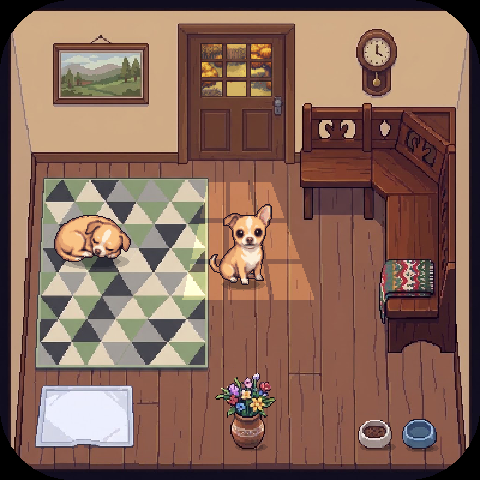
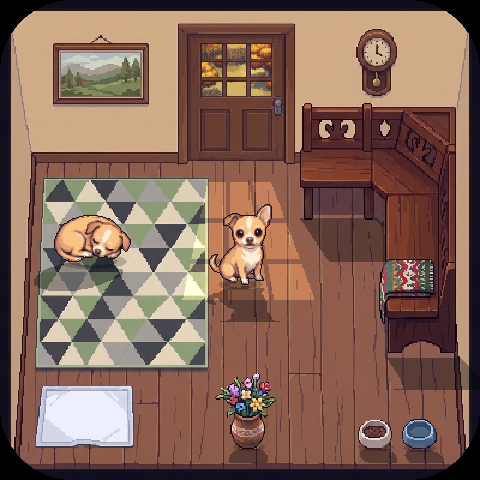
Backgrounds: cast shadows from the door's light, fading in the evening
By day the light comes through the door (from the back and above): Lili,
the vase, the bowls and the corner bench (hand-traced silhouette) throw a
shadow towards the viewer and away from the door, each pixel projected by
its height so the shadow keeps the shape. Evening: weaker, with a weaker
sunbeam; night: only the overhead lamp's short contact shadow.
Preview only (docs/img/bg/room_light_cycle.png).

diff --git a/tools/bg_prepare.py b/tools/bg_prepare.py
@@ -136,16 +136,24 @@ def pane_mask():
             m[ya:yb + 1, xa:xb + 1] = True
     return m
 
-def show(img400, sprites=(), night=False):
-    """the 480 display: 1.2x nearest (every 5th pixel doubled), Lili at native size with her shadow under
-    her, rounded corners; night = the evening table: darker and colder (the game swaps the palette LUT)"""
+def show(img400, sprites=(), cast=0.0, tone=None, room=True):
+    """the 480 display: 1.2x nearest (every 5th pixel doubled), Lili at native size with her shadows (the
+    door's cast shadow in the room by day, the short one under her always), rounded corners; tone = the
+    time-of-day table (multiply, add), as the game's palette LUT swap would do it"""
     s = img400.convert("RGB").resize((SHOW, SHOW), Image.NEAREST)
-    s = shade(s, [(x + 3, y - 1, rx, ry) for pose, x, y, rx, ry in sprites])
-    for pose, x, y, rx, ry in sprites:
-        sp = Image.open(os.path.join(ROOT, "assets", "sprites", "lili_src", pose + ".png")).convert("RGBA")
+    sps = [(Image.open(os.path.join(ROOT, "assets", "sprites", "lili_src", pose + ".png")).convert("RGBA"), x, y)
+           for pose, x, y, rx, ry in sprites]
+    if room and cast > 0:
+        k = SHOW / GRID
+        cm = np.zeros((SHOW, SHOW), bool)
+        for sp, x, y in sps:
+            cm |= cast_mask(np.asarray(sp)[..., 3] > 0, x - 48, y - 90, y, 60, (LIGHT[0] * k, LIGHT[1] * k), (SHOW, SHOW))
+        s = darken(s, floor_only(cm, k), 1 - 0.36 * cast)
+    s = shade(s, [(x + (0 if room else 3), y - 1, rx, ry) for pose, x, y, rx, ry in sprites])
+    for sp, x, y in sps:
         s.paste(sp, (x - 48, y - 90), sp)
-    if night:
-        a = np.asarray(s).astype(float) * 0.45 + np.array([8, 12, 38])
+    if tone:
+        a = np.asarray(s).astype(float) * np.array(tone[0]) + np.array(tone[1])
         s = Image.fromarray(a.clip(0, 255).astype(np.uint8))
     m = Image.new("L", s.size, 0); ImageDraw.Draw(m).rounded_rectangle((0, 0, SHOW - 1, SHOW - 1), CORNER, fill=255)
     out = Image.new("RGB", s.size, (0, 0, 0)); out.paste(s, (0, 0), m)
@@ -171,25 +179,86 @@ def main():
     lili_room = [("sit_S", 240, 285, 22, 6), ("sleep", 92, 262, 34, 8)]          # 480 px: pose, pivot, shadow
     for s in SEASONS:
         dv = door_view(yards[s]); dv.save(os.path.join(OUT, f"door_view_{s}.png"))
-        for mode in ("day", "night") if s == "spring" else ("day",):
+        for mode in MODES if s == "spring" else ("afternoon",):
+            cfg = MODES[mode]
             comp = Image.new("RGB", (GRID, GRID)); comp.paste(dv, (x0, y0))
             comp.paste(Image.fromarray(rgba, "RGBA"), (0, 0), Image.fromarray(rgba, "RGBA"))
-            if mode == "day":
-                comp = sunbeam(comp)
-            for pid in ("bowl_food", "bowl_water", "vase"):                      # contact shadows, light from top left
+            comp = sunbeam(comp, cfg["beam"])
+            if cfg["cast"] > 0:                                      # the door's light: cast shadows
+                cm = np.zeros((GRID, GRID), bool)
+                for bm, base, hmax in bench_alpha():
+                    cm |= cast_mask(bm, 0, 0, base, hmax, LIGHT, (GRID, GRID))
+                for pid in ("bowl_food", "bowl_water", "vase"):
+                    sp, (px, py) = props[pid]
+                    al = np.asarray(sp)[..., 3] > 0
+                    cm |= cast_mask(al, px, py, py + np.nonzero(al)[0].max(), 80, LIGHT, (GRID, GRID))
+                comp = darken(comp, floor_only(cm), 1 - 0.36 * cfg["cast"])
+            for pid in ("bowl_food", "bowl_water", "vase"):          # the overhead light: contact shadows
                 sp, (px, py) = props[pid]
                 comp = shade(comp, [prop_shadow(pid, sp, px, py)])
             for pid in ("pad", "vase", "bowl_food", "bowl_water"):
                 sp, pos = props[pid]; comp.paste(sp, pos, sp)
-            name = f"room_{s}_480.png" if mode == "day" else f"room_{s}_night_480.png"
-            show(comp, lili_room, night=(mode == "night")).save(os.path.join(DOC, name))
-            if mode == "day":
+            name = f"room_{s}_480.png" if mode == "afternoon" else f"room_{s}_{mode}_480.png"
+            show(comp, lili_room, cast=cfg["cast"], tone=cfg["tone"]).save(os.path.join(DOC, name))
+            if mode == "afternoon":
                 comp.crop((150, 15, 250, 140)).resize((600, 750), Image.NEAREST).save(os.path.join(DOC, f"door_{s}_zoom.png"))
-        show(yards[s], [("walk_SE", 240, 300, 26, 6)]).save(os.path.join(DOC, f"yard_{s}_480.png"))
+        show(yards[s], [("walk_SE", 240, 300, 26, 6)], room=False).save(os.path.join(DOC, f"yard_{s}_480.png"))
     show(Image.fromarray(np.asarray(filled))).save(os.path.join(DOC, "room_empty_floor_480.png"))
     print("->", os.path.relpath(OUT, ROOT), "and", os.path.relpath(DOC, ROOT))
 
 # --- the runtime light and shadow, simulated for the preview (the game does the same with remap tables) ---
+# The owner (2026-10-23): by day the light comes through the door, from the back and above, so everything
+# throws a shadow towards the viewer and away from the door (the vase, the bowls, Lili, the corner bench);
+# in the evening this fades, at night only the overhead lamp's short shadow right under things remains.
+LIGHT = (197, 100)                             # the door's glass, the light source (400 grid)
+FLOOR_TOP, FLOOR_BOTTOM = 138, 386             # shadows fall on the floor and the rug only
+# the corner bench is part of the background: hand-traced silhouettes (400 grid), the floor line under
+# each part, and its real height (a part's depth on the screen must not count as height)
+BENCH = [([(250, 87), (312, 87), (312, 181), (250, 181)], 181, 60),
+         ([(312, 90), (345, 90), (382, 140), (382, 297), (322, 297), (320, 160)], 297, 45)]
+MODES = {"afternoon": dict(cast=1.0, beam=1.0, tone=None),
+         "evening": dict(cast=0.45, beam=0.35, tone=((0.80, 0.74, 0.68), (18, 6, 0))),
+         "night": dict(cast=0.0, beam=0.0, tone=((0.45, 0.45, 0.45), (8, 12, 38)))}
+
+def cast_mask(alpha, ox, oy, base, hmax, light, size, s=0.6):
+    """the classic 2D cast shadow: every pixel of the object at height h above its floor line lands on one
+    point, h * s further towards the viewer, shifted sideways along the ray from the light (so the shadow
+    keeps the object's shape: legs stay thin); then closed. Filling the whole ray from the floor line was
+    tried first: it turned Lili's shadow into a solid block."""
+    lx, ly = light
+    ys, xs = np.nonzero(alpha)
+    out = np.zeros(size[::-1], bool)
+    for y, x in zip(ys + oy, xs + ox):
+        h = min(base - y, hmax)
+        if h < 0: continue
+        k = (x - lx) / max(8, base - ly)
+        sy = int(round(base + h * s)); sx = int(round(x + h * s * k))
+        if 0 <= sy < size[1] and 0 <= sx < size[0]: out[sy, sx] = True
+    m = Image.fromarray(out.astype(np.uint8) * 255).filter(ImageFilter.MaxFilter(3)).filter(ImageFilter.MinFilter(3))
+    return np.asarray(m) > 0
+
+def darken(img, mask, f):
+    a = np.asarray(img).astype(float)
+    a[mask] = a[mask] * f + np.array([0, 4, 14]) * (1 - f)
+    return Image.fromarray(a.clip(0, 255).astype(np.uint8))
+
+def bench_alpha():
+    out = []
+    for poly, base, hmax in BENCH:
+        m = Image.new("L", (GRID, GRID), 0); ImageDraw.Draw(m).polygon(poly, fill=255)
+        out.append((np.asarray(m) > 0, base, hmax))
+    return out
+
+def floor_only(mask, scale=1.0):
+    """no shadow on the wall or on the bench itself"""
+    h, w = mask.shape
+    yy = np.arange(h)[:, None] / scale
+    m = mask & (yy >= FLOOR_TOP) & (yy < FLOOR_BOTTOM)
+    b = np.zeros((GRID, GRID), bool)
+    for bm, _, _ in bench_alpha(): b |= bm
+    if scale != 1.0:
+        b = np.asarray(Image.fromarray(b.astype(np.uint8) * 255).resize((w, h), Image.NEAREST)) > 0
+    return m & ~b
 
 def shade(img, ellipses, inner=0.62, outer=0.80):
     """a hard-edged two-step pixel-art shadow: the outer ring a little darker, the core darker, both a bit
@@ -204,17 +273,20 @@ def shade(img, ellipses, inner=0.62, outer=0.80):
     return Image.fromarray(a.clip(0, 255).astype(np.uint8))
 
 def prop_shadow(pid, sp, px, py):
-    """under the object's base, nudged right and down (the light comes from the top left)"""
+    """the overhead light's short shadow, right under the object's base"""
     al = np.asarray(sp)[..., 3] > 0
     ys, xs = np.nonzero(al)
     base = ys.max()
     cols = xs[ys >= base - 3]
-    cx = px + (cols.min() + cols.max()) / 2 + 2
+    cx = px + (cols.min() + cols.max()) / 2
     rx = (cols.max() - cols.min()) / 2 + 3
     return (cx, py + base - 1, rx, 4)
 
-def sunbeam(img):
-    """afternoon: the door's 3 x 3 panes land on the floor as a warm, widening patch (muntin gaps between)"""
+def sunbeam(img, strength=1.0):
+    """the door's 3 x 3 panes land on the floor as a warm, widening patch (muntin gaps between);
+    strength 1 in the afternoon, weaker in the evening, none at night"""
+    if strength <= 0:
+        return img
     a = np.asarray(img).astype(float)
     top, bot = (150, 172, 228), (252, 150, 266)                 # y, x_left, x_right of the patch's edges
     for r in range(3):
@@ -225,7 +297,7 @@ def sunbeam(img):
                 xl = top[1] + (bot[1] - top[1]) * t; xr = top[2] + (bot[2] - top[2]) * t
                 w = (xr - xl) / 3
                 xa, xb = int(xl + w * c + 2), int(xl + w * (c + 1) - 2)
-                a[y, xa:xb] = a[y, xa:xb] * 1.16 + np.array([30, 20, 2])
+                a[y, xa:xb] = a[y, xa:xb] * (1 + 0.16 * strength) + np.array([30, 20, 2]) * strength
     return Image.fromarray(a.clip(0, 255).astype(np.uint8))
 
 if __name__ == "__main__":

diff --git a/docs/decisions.md b/docs/decisions.md
@@ -39,4 +39,4 @@
 | 2D vonal (Blender helyett) | **A gazdi (2026-10-23):** a Blender-modell nem lett elég hű, a sprite-ok 2D-ben készülnek a jóváhagyott Lili-képekből (`docs/art/Lilik`: 10 db 128 px-es pixellab PNG + 2 Gemini montázs). A Blender-fájlok és -eszközök maradnak, de nem a fő vonal. Méret: **96 px cella, pivot (48, 90)** (a magas, nagyfülű pózok miatt a pivot a talp közelében), a kutya oldalról ~73 px, ülve ~81 px. Élesítés: `tools/sprite_clean.py` (a forrás valódi pixelmérete mérve: PNG ~1,17 px, montázs 4,27 px; módusz-mintavétel a kimeneti rácsra, kemény alfa, 1 px kontúr, 15 px alatti foltok törölve, a montázs bézs háttere és sült árnyéka elárasztással levágva). Paletta: a mester-paletta rámpái fakóvá tették a bundát, ezért **Lili saját 40 színe** (k-means Oklabban a pózokból) a 256-os paletta szabad 144-183 helyein (`assets/palettes/lili_sprites.json`), a kontúr a forrás szélének színe (#1d0f1d). Vektorizálás elvetve (a 96 px-es kijelzőre visszaraszterezve elmosódott vagy szabálytalan élt adna). Hiányzó irányok: NW és E (új forráskép kell). A montázs-pózok forrása kisebb felbontású, ezért kevésbé részletesek. Animáció: 2D bábanimáció a fő vonal, mellette egy kép-videó modell próba (a gazdi döntése), külön tervvel. |
 | animáció / videómodell elvetve | **2026-10-23:** a képből-videó modellek kipróbálva a gazdi gépén: Wan2.1-VACE-1.3B (33-49 kocka 2-3 perc, 5 GB VRAM; a lábak elkenődnek vagy egy pózban ragadnak, egy próbánál Lili szétesett) és Wan2.2-TI2V-5B (8 perc egy klip, 25 GB RAM; a járásnál kisétál a képből és kifehéredik, a farokcsóválásnál alig mozdul). A gazdi szerint mindkettő, és a 2D bábanimáció (légzés, pislogás) is kevés. **A videós út lezárva, a modellek (39 GB) és a próbák törölve.** Következő próba: kulcskockák képszerkesztéssel, FLUX.2 klein 4B (Apache-2.0), `tools/keyframes.py`, minden kocka a tisztított sprite szerkesztése, nem videó. A WSL memóriakorlátja 16 -> 26 GB, swap 4 -> 16 GB (`%UserProfile%\.wslconfig`, a régi `.wslconfig.bak-2026-10-23`), a gazdi engedélyével. A SpriteKiln (1 napos, csak Macen tesztelt, Wan 2.2 14B-re épül) és a pixel-sprite-lab (nem létezik) elvetve. |
 | animáció / PixelLab | **A gazdi döntése (2026-10-23):** Lili animációi a **PixelLab** webes szerkesztőjében (pixellab.ai/editor, Pixelorama) készülnek, az "Animate with Text (New)" v3 eszközzel, a jóváhagyott 96 px-es forráspózból (első kocka = a forrás). Az első próba (walk_SE, 8 kocka, 2 generálás) a FLUX.2 klein kulcskockáknál jóval jobb: a stílus, a színek és a kontúr megmarad, a lábak valódi ciklust adnak. A lógó fül járás közben felemelkedik, a farok kiegyenesedik; a gazdi szerint ez **rendben van** ("menet közben felállhat a füle"), álló és ülő pózban a fül lógó marad. **Kivétel a CLAUDE.md 7. szabálya alól (fizetős szolgáltatás):** az assetgyártáshoz a gazdi a PixelLab Tier 1 (12 USD/hó, 2000 generálás) előfizetését választja, addig a 40 ingyenes generálásból megy; a játék és a firmware nem függ tőle (a kimenet PNG a repóban). Munkamenet: Claude in Chrome, a fájlválasztó és a mentési ablak elkerülve (a Pixelorama fájl-inputja elfogva, az export egy helyi fogadón át megy), a sheetek a repóban: `assets/pixellab/<anim>_<irány>_sheet.png` (commitolva, mert kreditbe kerültek és nem generálhatók újra ingyen), előnézet: `tools/pixellab_import.py`. Az ingyenes csomag egyszerre 1 generálást enged. **Semmi nem kerül a pakba a gazdi jóváhagyása előtt.** |
-| hátterek (előkészítve, bekötésre vár) | **A gazdi generálta (2026-10-23):** szoba (napcsík nélkül) és udvar 4 évszakra (`assets/backgrounds/src/`, 1024 px, a valódi rács **400 x 400**, mérve: 2,56 px-es periódus). Az udvar alján nem kell házfal (a szobából látszik). **Az ajtó üvegein át az udvar látszik** (a gazdi ötlete): a 9 üvegtábla átlátszó a szobaképen, mögötte az aktuális évszak udvarának távoli része, kicsinyítve, üvegszerűen világosítva (`door_view_<évszak>.png`). A tálak, a pelenka és a váza külön elemek (állapotuk változik, és Lilivel együtt rendeződnek Y szerint); a padló alattuk deszkánként a saját színével kitöltve (`tools/bg_prepare.py`). **Árnyékok (a gazdi: "rohadt fontos"):** futás közben számolva, nem beleégetve: Lili és a tárgyak alatt kétlépcsős, kissé kékes árnyék (a fény balról fentről), délután a napfolt az ajtóüveg osztásával, éjjel a sötétebb, hidegebb LUT; az udvar fáinak árnyéka a képen marad (nem változik). Megjelenítés: 400 -> 480 legközelebbi szomszéddal (minden 5. pixel kétszer), a panelen ellenőrizendő. Méret 200 színnel: szoba 143 KB, udvar 171-181 KB (RLE). |
+| hátterek (előkészítve, bekötésre vár) | **A gazdi generálta (2026-10-23):** szoba (napcsík nélkül) és udvar 4 évszakra (`assets/backgrounds/src/`, 1024 px, a valódi rács **400 x 400**, mérve: 2,56 px-es periódus). Az udvar alján nem kell házfal (a szobából látszik). **Az ajtó üvegein át az udvar látszik** (a gazdi ötlete): a 9 üvegtábla átlátszó a szobaképen, mögötte az aktuális évszak udvarának távoli része, kicsinyítve, üvegszerűen világosítva (`door_view_<évszak>.png`). A tálak, a pelenka és a váza külön elemek (állapotuk változik, és Lilivel együtt rendeződnek Y szerint); a padló alattuk deszkánként a saját színével kitöltve (`tools/bg_prepare.py`). **Árnyékok (a gazdi: "rohadt fontos"):** futás közben számolva, nem beleégetve. A szobában **nappal a fény az ajtón át jön (hátulról és fentről)**: minden tárgy (Lili, váza, tálak, sarokülő) vetett árnyéka felénk és az ajtótól kifelé esik, a tárgy alakját követve (minden pixel a magasságával arányosan vetül); **este ez elhalványul, éjjel csak a fenti lámpa rövid árnyéka marad** közvetlenül a tárgyak alatt (a gazdi kérése, 2026-10-23). Délután a napfolt az ajtóüveg osztásával esik a padlóra, este gyengébb, éjjel nincs; a napszakot a LUT adja. A sarokülő a háttér része, a sziluettje kézzel rajzolt (`BENCH`); az udvar fáinak árnyéka a képen marad (nem változik). Megjelenítés: 400 -> 480 legközelebbi szomszéddal (minden 5. pixel kétszer), a panelen ellenőrizendő. Méret 200 színnel: szoba 143 KB, udvar 171-181 KB (RLE). |
